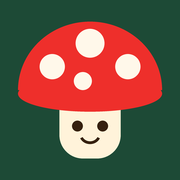
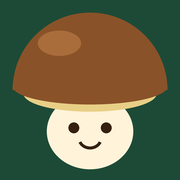
Replace fly agaric and chanterelle with new mushrooms
Add parasol and Polish mushrooms, move porcini before the king mushroom,
and use a porcini app icon.

diff --git a/js/mushrooms.js b/js/mushrooms.js
@@ -2,16 +2,16 @@
 
 export const MUSHROOMS = [
   { name: 'Опёнок', r: 16, points: 1, bg: ['#a9d48a', '#6b9f58'], rim: '#4d7a40', cap: ['#e5b56c', '#b67c37'], shape: 'bell', face: 'dot' },
-  { name: 'Лисичка', r: 22, points: 3, bg: ['#fff0b8', '#f2cf6a'], rim: '#c99a2e', cap: ['#ffb02e', '#e47f12'], shape: 'funnel', stem: ['#ffc65a', '#e8922a'], face: 'happy' },
+  { name: 'Зонтик', r: 22, points: 3, bg: ['#ffd75e', '#eeb021'], rim: '#b57f10', cap: ['#fff4dc', '#e4cda4'], shape: 'parasol', stemW: 0.27, ring: true, gloss: 0.5, face: 'happy',
+    scales: [[-0.26, -0.36], [0, -0.32], [0.26, -0.36], [-0.62, -0.06], [-0.32, -0.1], [0, -0.08], [0.32, -0.1], [0.62, -0.06], [-0.42, 0.1], [-0.14, 0.12], [0.14, 0.12], [0.42, 0.1]] },
   { name: 'Маслёнок', r: 29, points: 6, bg: ['#d9c3ea', '#a585bf'], rim: '#755490', cap: ['#8f5a34', '#4f2d18'], shape: 'dome', gloss: 1.5, face: 'dot' },
   { name: 'Сыроежка', r: 36, points: 10, bg: ['#ffe0dc', '#f4aaa8'], rim: '#c96f73', cap: ['#f0536f', '#b9213f'], shape: 'flat', face: 'wink' },
   { name: 'Подберёзовик', r: 44, points: 15, bg: ['#c9eaf2', '#79bdd0'], rim: '#458da3', cap: ['#a9713f', '#6a3f1e'], shape: 'dome', speckles: true, stemW: 0.32, face: 'happy' },
   { name: 'Подосиновик', r: 53, points: 21, bg: ['#ffe6c7', '#f6bd85'], rim: '#c98243', cap: ['#f4662a', '#b93208'], shape: 'dome', speckles: true, stemW: 0.38, face: 'wow' },
   { name: 'Шампиньон', r: 62, points: 28, bg: ['#c5d0f2', '#8294d3'], rim: '#55669f', cap: ['#ffffff', '#d6d2c8'], shape: 'fat', stemW: 0.3, face: 'sleepy' },
   { name: 'Рыжик', r: 72, points: 36, bg: ['#4fae95', '#21695a'], rim: '#154b3f', cap: ['#ff9f43', '#d4620f'], shape: 'flat', rings: true, face: 'dot' },
-  { name: 'Боровик', r: 83, points: 45, bg: ['#f1dfbd', '#cfa871'], rim: '#94703f', cap: ['#8a5228', '#512b10'], shape: 'fat', stemW: 0.46, face: 'happy' },
-  { name: 'Мухомор', r: 95, points: 55, bg: ['#5b8fdc', '#234b93'], rim: '#16336b', cap: ['#ff3f34', '#b70f18'], shape: 'dome', face: 'wink',
-    spots: [[-0.52, -0.2, 0.13], [-0.16, -0.56, 0.15], [0.3, -0.34, 0.14], [0.62, -0.06, 0.1], [-0.2, -0.08, 0.09], [0.12, 0.03, 0.08], [-0.66, 0.02, 0.07]] },
+  { name: 'Польский гриб', r: 83, points: 45, bg: ['#5b8fdc', '#234b93'], rim: '#16336b', cap: ['#7a3f1f', '#3f1c0c'], shape: 'dome', sponge: '#e9d04f', stem: ['#ecd09a', '#bb9259'], stemW: 0.36, face: 'wink' },
+  { name: 'Боровик', r: 95, points: 55, bg: ['#f1dfbd', '#cfa871'], rim: '#94703f', cap: ['#b5763c', '#6e4019'], shape: 'fat', sponge: '#f3e7b8', stemW: 0.46, face: 'happy' },
   { name: 'Царь-гриб', r: 108, points: 66, bg: ['#9a55e0', '#4b1b8a'], rim: '#f4c542', cap: ['#ffe27a', '#e09a12'], shape: 'dome', crown: true, face: 'star' },
 ];
 
@@ -100,6 +100,19 @@ function drawStem(ctx, m) {
     }
   }
   ctx.restore();
+
+  if (m.ring) {
+    ctx.fillStyle = '#d9bf8f';
+    ctx.beginPath();
+    ctx.ellipse(0, 0.33, w + 0.06, 0.05, 0, 0, Math.PI * 2);
+    ctx.fill();
+  }
+  if (m.sponge) {
+    ctx.fillStyle = m.sponge;
+    ctx.beginPath();
+    ctx.ellipse(0, 0.2, 0.78, 0.17, 0, 0, Math.PI * 2);
+    ctx.fill();
+  }
 }
 
 function capPath(ctx, shape) {
@@ -119,16 +132,12 @@ function capPath(ctx, shape) {
       ctx.bezierCurveTo(0.5, -0.62, 0.9, -0.42, 0.93, 0.04);
       ctx.quadraticCurveTo(0, 0.42, -0.93, 0.04);
       break;
-    case 'funnel':
-      ctx.moveTo(-0.9, -0.46);
-      ctx.quadraticCurveTo(-0.7, -0.64, -0.5, -0.5);
-      ctx.quadraticCurveTo(-0.3, -0.68, -0.1, -0.52);
-      ctx.quadraticCurveTo(0.1, -0.68, 0.3, -0.52);
-      ctx.quadraticCurveTo(0.5, -0.66, 0.7, -0.5);
-      ctx.quadraticCurveTo(0.82, -0.58, 0.9, -0.46);
-      ctx.bezierCurveTo(0.82, -0.02, 0.46, 0.14, 0.34, 0.36);
-      ctx.lineTo(-0.34, 0.36);
-      ctx.bezierCurveTo(-0.46, 0.14, -0.82, -0.02, -0.9, -0.46);
+    case 'parasol':
+      ctx.moveTo(-0.95, 0.1);
+      ctx.bezierCurveTo(-0.8, -0.2, -0.35, -0.5, -0.14, -0.6);
+      ctx.quadraticCurveTo(0, -0.86, 0.14, -0.6);
+      ctx.bezierCurveTo(0.35, -0.5, 0.8, -0.2, 0.95, 0.1);
+      ctx.quadraticCurveTo(0, 0.3, -0.95, 0.1);
       break;
     case 'fat':
       ctx.moveTo(-0.95, 0.08);
@@ -168,21 +177,14 @@ function drawCap(ctx, m) {
       ctx.stroke();
     }
   }
-  if (m.shape === 'funnel') {
-    ctx.strokeStyle = 'rgba(160,80,0,.55)';
-    ctx.lineWidth = 0.035;
-    for (const x of [-0.56, -0.28, 0, 0.28, 0.56]) {
+  if (m.scales) {
+    ctx.fillStyle = '#8a5a2c';
+    ctx.beginPath();
+    ctx.ellipse(0, -0.64, 0.22, 0.17, 0, 0, Math.PI * 2);
+    ctx.fill();
+    for (const [x, y] of m.scales) {
       ctx.beginPath();
-      ctx.moveTo(x, -0.46);
-      ctx.quadraticCurveTo(x * 0.9, -0.1, x * 0.45, 0.3);
-      ctx.stroke();
-    }
-  }
-  if (m.spots) {
-    ctx.fillStyle = '#fff8ea';
-    for (const [x, y, r] of m.spots) {
-      ctx.beginPath();
-      ctx.ellipse(x, y, r, r * 0.86, 0.3, 0, Math.PI * 2);
+      ctx.ellipse(x, y, 0.075, 0.05, x * 0.8, 0, Math.PI * 2);
       ctx.fill();
     }
   }
